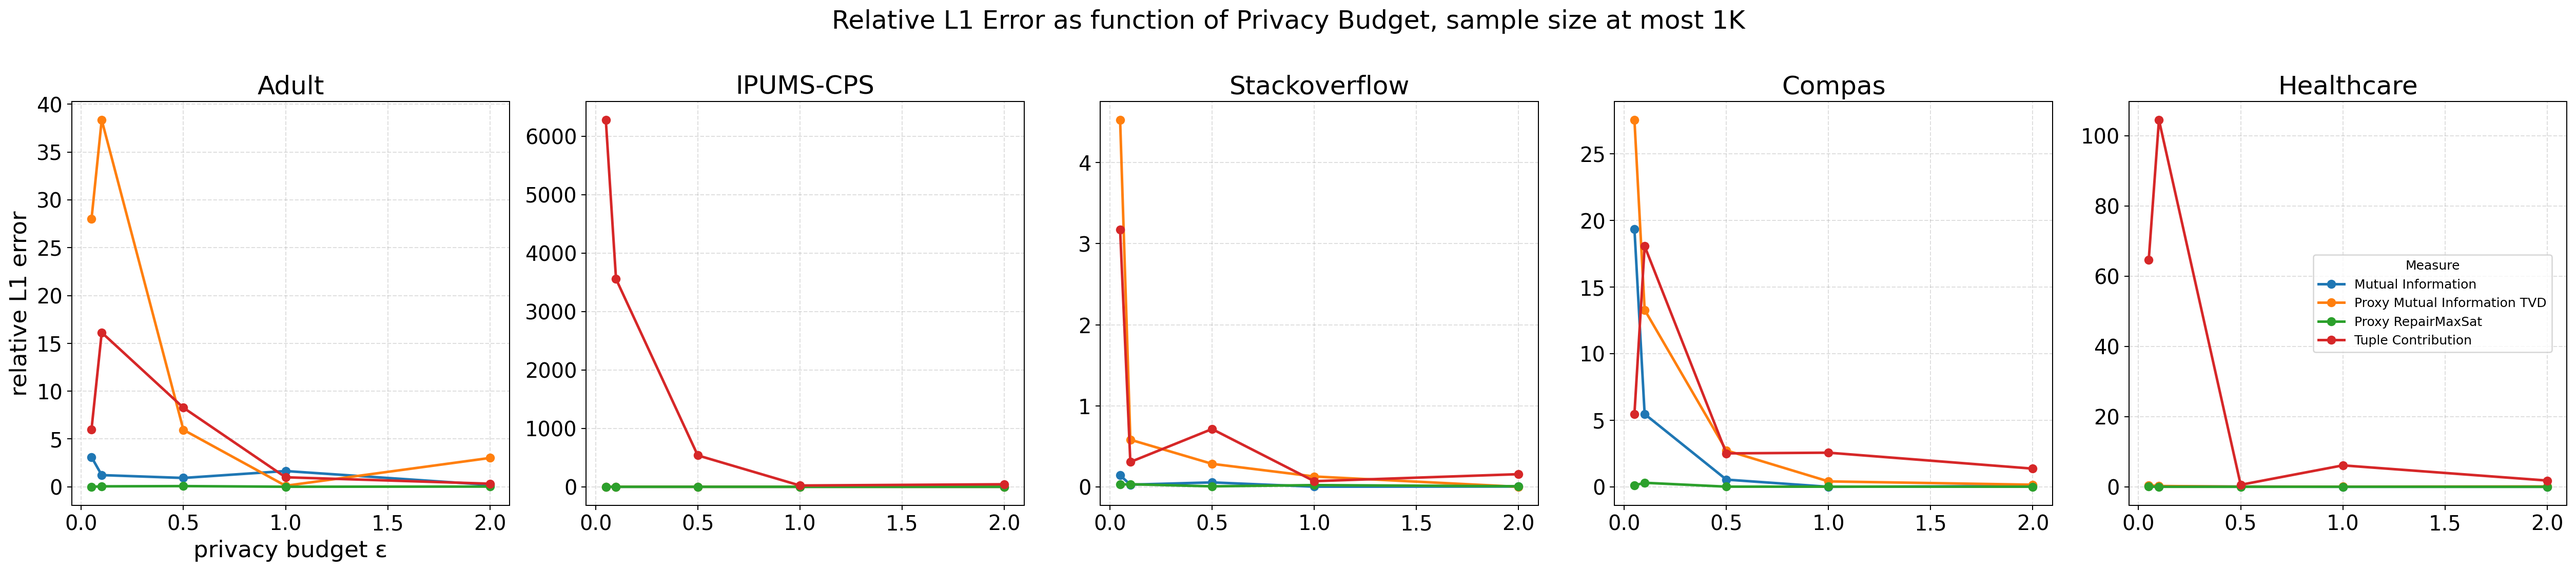
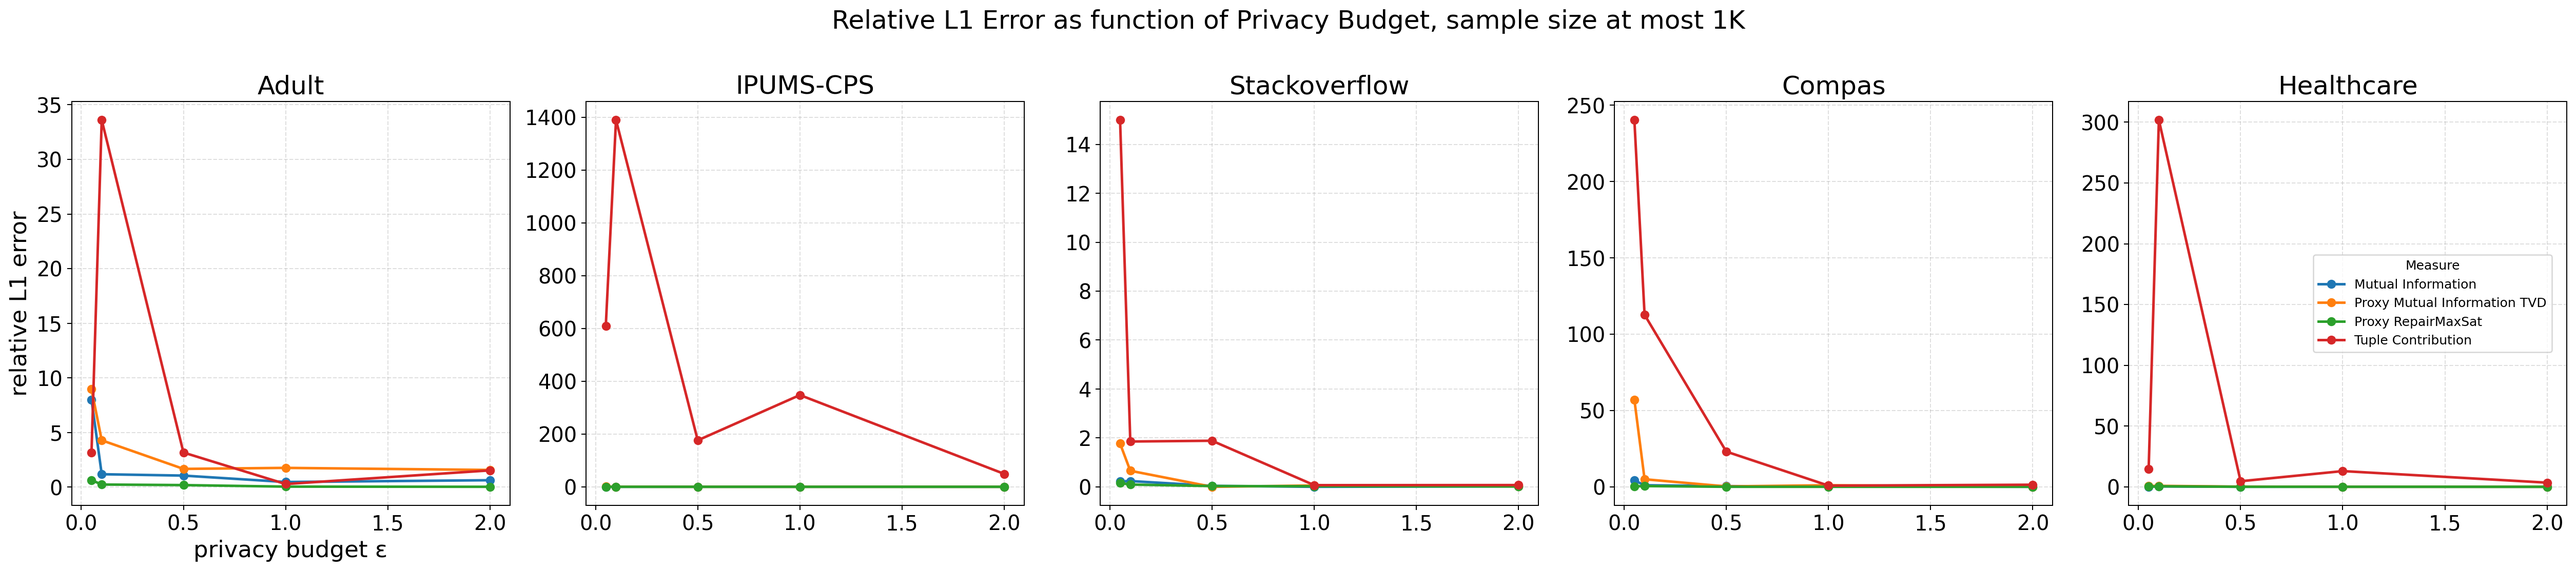
Fixed sensitivity in repair

diff --git a/proxy_repair_maxsat.py b/proxy_repair_maxsat.py
@@ -100,7 +100,7 @@ class ProxyRepairMaxSat:
         repair = len(list_symmetric_difference)
 
         if epsilon is not None:
-            sensitivity = 2
+            sensitivity = 2 * len(fairness_criteria)
             repair = repair + np.random.laplace(loc=0, scale=sensitivity / epsilon)
 
         elapsed_time = time.time() - start_time
